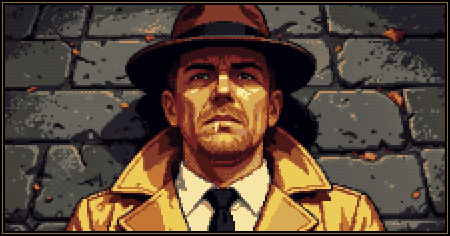
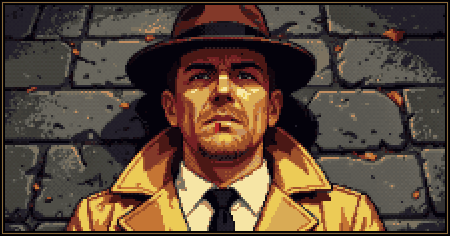
Kick from behind Micah, half turned to the screen; red lip cut stamped after the reduction
Sal kicks with his right foot from behind Micah's middle, the foot hidden by Micah's
body. The lip cut is now fresh red, painted onto the reduced art pixels so the rest
of the face keeps its colours.

diff --git a/tools/art/closeup.py b/tools/art/closeup.py
@@ -42,10 +42,11 @@ MICAH_FACE_X, ELEANOR_FACE_X = 672, 665  # face centres in the 1344x768 sources
 MICAH_FACE_W, MICAH_FACE_H, MICAH_EYES_Y = 260, 235, 265
 ELEANOR_FACE_W, ELEANOR_FACE_H, ELEANOR_EYES_Y = 280, 320, 245
 MICAH_ZOOM = ((ELEANOR_FACE_W * ELEANOR_FACE_H) / (MICAH_FACE_W * MICAH_FACE_H)) ** 0.5
-# The lip scar, from the mouth line to the chin, in each source of Micah's face: pale scar tissue and its dark edge.
-MICAH_SCAR = ((652, 398), (647, 428))
-BEATEN_SCAR = ((648, 358), (643, 388))
-SCAR, SCAR_EDGE = hx("f0c8b0"), hx("6a2a24")
+# The lip cut, from the mouth line to the chin, in each source of Micah's face: fresh red and its darker edge.
+MICAH_CUT = ((652, 398), (647, 428))
+BEATEN_CUT = ((648, 358), (643, 388))
+CUT, CUT_EDGE = hx("b8262a"), hx("5a0e12")
+CUT_COVER = 80  # how much of an art pixel the cut must cover to be stamped red, out of 255
 # One palette for both stage variants, so they differ only where the dress is. Pinned to the one the pictures had
 # before the locks of hair were painted in, so her face reduces to exactly the same pixels as it always did.
 STAGE_PALETTE = [hx(c) for c in """
@@ -84,24 +85,32 @@ def crop_to_panel(img):
     return img.crop((0, 0, w, round(w * AH / AW)))
 
 
-def lip_scar(img, top, bottom, width=10):
-    """Paints the scar the Blue Lantern left on Micah's bottom lip: a thin pale seam, slightly slanted, from the
-    mouth line down across the lip into the chin, with a dark healed edge along one side. Drawn on a copy of the
-    source picture, wide enough to come through the reduction as a line about one art pixel wide."""
-    img = img.copy()
-    draw = ImageDraw.Draw(img)
+def lip_cut(size, top, bottom, width=10):
+    """The cut the Blue Lantern left on Micah's bottom lip, as masks over a source picture of the given size: a thin
+    line, slightly slanted, from the mouth line down across the lip into the chin, and a darker edge along one side.
+    The masks go through the same crop and reduction as the picture, then stamp_cut paints them in."""
     (x0, y0), (x1, y1) = top, bottom
-    draw.line([top, bottom], fill=SCAR, width=width)
-    draw.line([(x0 + width, y0 + 4), (x1 + width, y1)], fill=SCAR_EDGE, width=width // 2)
-    return img
+    cut, edge = Image.new("L", size, 0), Image.new("L", size, 0)
+    ImageDraw.Draw(cut).line([top, bottom], fill=255, width=width)
+    ImageDraw.Draw(edge).line([(x0 + width, y0 + 4), (x1 + width, y1)], fill=255, width=width // 2)
+    return cut, edge
+
+
+def stamp_cut(art, masks):
+    """Paints the cut over a picture already reduced to art pixels, in its own two reds, so the reduction of the rest
+    of the face is untouched; masks are lip_cut's, reduced to the same size."""
+    a = np.array(art)
+    cut, edge = (np.asarray(m.convert("L")) >= CUT_COVER for m in masks)
+    a[edge & ~cut] = CUT_EDGE
+    a[cut] = CUT
+    return Image.fromarray(a)
 
 
 def beaten_closeup(src):
-    """Micah flat on his back on the cathedral steps, looking up from under his hat, the scar on his bottom lip.
-    The palette is the unscarred picture's, so the scar changes only its own pixels."""
-    src = src.convert("RGB")
-    img = crop_to_panel(lip_scar(src, *BEATEN_SCAR))
-    return framed(img, palette_of(crop_to_panel(src).resize((AW, AH), Image.BOX), COLOURS))
+    """Micah flat on his back on the cathedral steps, looking up from under his hat, the cut on his bottom lip."""
+    img = crop_to_panel(src.convert("RGB"))
+    cut = [crop_to_panel(m) for m in lip_cut(src.size, *BEATEN_CUT)]
+    return framed(img, palette_of(img.resize((AW, AH), Image.BOX), COLOURS - 2), cut)
 
 
 def motel_crop(src):
@@ -137,12 +146,11 @@ def portrait_crop(src, cx, zoom=1.0, eyes_y=None, target_eyes_y=None):
 
 def convent_closeup(micah, eleanor):
     """Outside the convent, the first time they meet: Micah on the left, Eleanor on the right, faces the same size.
-    Micah's bottom lip carries the scar from the Blue Lantern; the palette is the unscarred picture's, so the scar
-    changes only its own pixels."""
-    micah = micah.convert("RGB")
+    Micah's bottom lip carries the cut from the Blue Lantern, in two reds that leave the panel's other 30 colours."""
     crop = lambda img: portrait_crop(img, MICAH_FACE_X, MICAH_ZOOM, MICAH_EYES_Y, ELEANOR_EYES_Y)
-    right = portrait_crop(eleanor, ELEANOR_FACE_X)
-    return framed_pair(crop(lip_scar(micah, *MICAH_SCAR)), right, pair_palette(crop(micah), right))
+    left, right = crop(micah), portrait_crop(eleanor, ELEANOR_FACE_X)
+    cut = [crop(m) for m in lip_cut(micah.size, *MICAH_CUT)]
+    return framed_pair(left, right, pair_palette(left, right, COLOURS - 2), cut)
 
 
 def frame_border(panel):
@@ -153,30 +161,36 @@ def frame_border(panel):
     return panel
 
 
-def framed(img, pal):
-    """The framed panel: the picture reduced to chunky VGA pixels inside a dark bevelled frame."""
+def framed(img, pal, cut=None):
+    """The framed panel: the picture reduced to chunky VGA pixels inside a dark bevelled frame; cut is lip_cut's
+    masks, cropped like the picture, to stamp over the reduction."""
     small = img.resize((AW, AH), Image.BOX)
-    inner = pixelize(small, pal, spread=8).resize((IW, IH), Image.NEAREST)
+    art = pixelize(small, pal, spread=8)
+    if cut: art = stamp_cut(art, [m.resize((AW, AH), Image.BOX) for m in cut])
+    inner = art.resize((IW, IH), Image.NEAREST)
     panel = Image.new("RGB", (PW, PH), hx("08060a"))
     panel.paste(inner, (FRAME, FRAME))
     return frame_border(panel)
 
 
-def pair_palette(left, right):
+def pair_palette(left, right, colours=COLOURS):
     """The palette a two-portrait panel of these pictures gets."""
     both = Image.new("RGB", (HALF * 2, AH))
     both.paste(left.resize((HALF, AH), Image.BOX), (0, 0))
     both.paste(right.resize((HALF, AH), Image.BOX), (HALF, 0))
-    return palette_of(both, COLOURS)
+    return palette_of(both, colours)
 
 
-def framed_pair(left, right, pal=None):
-    """Two pictures side by side in one framed panel, split by a bar in the frame's colours. One palette for both."""
+def framed_pair(left, right, pal=None, left_cut=None):
+    """Two pictures side by side in one framed panel, split by a bar in the frame's colours. One palette for both;
+    left_cut is lip_cut's masks, cropped like the left picture."""
     a = left.resize((HALF, AH), Image.BOX)
     b = right.resize((HALF, AH), Image.BOX)
     pal = pal or pair_palette(left, right)
+    art = pixelize(a, pal, spread=8)
+    if left_cut: art = stamp_cut(art, [m.resize((HALF, AH), Image.BOX) for m in left_cut])
     panel = Image.new("RGB", (PW, PH), hx("08060a"))
-    panel.paste(pixelize(a, pal, spread=8).resize((HALF * SCALE, IH), Image.NEAREST), (FRAME, FRAME))
+    panel.paste(art.resize((HALF * SCALE, IH), Image.NEAREST), (FRAME, FRAME))
     panel.paste(pixelize(b, pal, spread=8).resize((HALF * SCALE, IH), Image.NEAREST), (PW - FRAME - HALF * SCALE, FRAME))
     d = ImageDraw.Draw(panel)
     x0 = FRAME + HALF * SCALE

diff --git a/tests/art/test_convent_closeup.py b/tests/art/test_convent_closeup.py
@@ -74,20 +74,24 @@ class ConventCloseupTests(unittest.TestCase):
         colours = {tuple(c) for c in np.concatenate([left.reshape(-1, 3), right.reshape(-1, 3)])}
         self.assertLessEqual(len(colours), closeup.COLOURS)
 
-    def test_a_small_scar_crosses_micahs_bottom_lip(self):
-        source = Image.open(closeup.MICAH_SRC).convert("RGB")
-        scarred = np.asarray(closeup.lip_scar(source, *closeup.MICAH_SCAR)).astype(int)
-        changed = np.argwhere((scarred != np.asarray(source)).any(axis=2))
-        (top, left), (bottom, right) = changed.min(axis=0), changed.max(axis=0)
-        self.assertLessEqual(bottom - top, 40, "a short scar, not a gash")
+    def test_a_small_red_cut_crosses_micahs_bottom_lip(self):
+        source = Image.open(closeup.MICAH_SRC)
+        cut, _ = closeup.lip_cut(source.size, *closeup.MICAH_CUT)
+        (top, left), (bottom, right) = (lambda p: (p.min(axis=0), p.max(axis=0)))(np.argwhere(np.asarray(cut)))
+        self.assertLessEqual(bottom - top, 40, "a short cut, not a gash")
         self.assertLessEqual(right - left, 25, "a thin line")
         self.assertTrue(abs(top - 400) <= 6 and closeup.MICAH_FACE_X - 40 < left < closeup.MICAH_FACE_X,
                         "from the mouth line, just off centre")
-        with unittest.mock.patch.object(closeup, "lip_scar", lambda img, *_: img):
+        with unittest.mock.patch.object(closeup, "stamp_cut", lambda art, _: art):
             plain = closeup.convent_closeup(source, Image.open(closeup.ELEANOR_SRC))
-        diff = (np.asarray(self.panel) != np.asarray(plain)).any(axis=2)
-        self.assertTrue(diff[:, :BAR_X].any(), "the scar survives the reduction")
-        self.assertLess(diff[:, :BAR_X].sum(), 200, "and stays small in the panel")
+        a, p = np.asarray(self.panel), np.asarray(plain)
+        diff = (a != p).any(axis=2)
+        self.assertFalse(diff[:, BAR_X:].any(), "Eleanor is untouched")
+        self.assertTrue(diff.any(), "the cut survives the reduction")
+        self.assertLess(diff.sum(), 200, "and stays small in the panel")
+        reds = {tuple(c) for c in a[diff]}
+        self.assertLessEqual(reds, {closeup.CUT, closeup.CUT_EDGE}, "only the cut's own reds change")
+        self.assertIn(closeup.CUT, reds, "fresh red, not a pale line")
 
     def test_micah_on_the_left_in_his_yellow_coat(self):
         left, _ = halves(self.panel)

diff --git a/scripts/Rooms/Alley.cs b/scripts/Rooms/Alley.cs
@@ -21,9 +21,10 @@ public partial class Alley : Room
     private static readonly Vector2 TonyOut = new(318, 208);
     private static readonly Vector2 MicahAims = new(258, 214);
 
-    /// <summary>Act 1: Sal's place by Micah's head, and the spot a step further on that he kicks from.</summary>
+    /// <summary>Act 1: Sal's place by Micah's head, and the spot he kicks from: behind Micah, half turned to the
+    /// screen, so his right foot goes into Micah's belly out of sight behind Micah's body.</summary>
     private static readonly Vector2 SalStands = new(242, 224);
-    private static readonly Vector2 SalKicks = new(272, 228);
+    private static readonly Vector2 SalKicks = new(250, 220);
 
     /// <summary>Seconds into sal_kick when his toe lands: the idle and wind-up frames.</summary>
     private const double KickLands = 0.45;
@@ -95,7 +96,7 @@ public partial class Alley : Room
             await Wait(0.8);
             if (FindActor("sal") is { } bouncer)
             {
-                // so it's clear what happened out here: two in the gut for the road, then Sal steps back
+                // so it's clear what happened out here: from behind Micah, two in the gut, then Sal steps back
                 await bouncer.MoveTo(SalKicks, 50);
                 bouncer.FaceLeft(true);
                 for (int kick = 0; kick < 2; kick++)
@@ -192,7 +193,8 @@ public partial class Alley : Room
         return false;
     }
 
-    /// <summary>One kick: Sal swings his foot under Micah's chest, and Micah doubles up and sags back onto his forearms.</summary>
+    /// <summary>One kick: from behind Micah, facing the screen, Sal drives his foot into Micah's belly, and Micah
+    /// doubles up and sags back onto his forearms.</summary>
     private async Task<bool> Kick(Actor sal)
     {
         var swing = sal.PlayPose("sal_kick");

diff --git a/tools/art/sprites.py b/tools/art/sprites.py
@@ -460,13 +460,13 @@ def kneeling_figure(spec, joints):
     return action_figure(spec, joints, chest_down=down, toes_tucked=down)
 
 
-# Sal's kick, facing right (the alley flips him): (yaw, legs, lean) after his idle frame. He turns side-on and draws
-# the near leg back, drives the toe forward and low under a kneeling man's chest, then lets the leg drop back.
-# Hands stay in his pockets throughout.
+# Sal's kick, standing behind a kneeling man and half turned to the screen, facing right (the alley flips him so the
+# kicking leg is his right): (yaw, legs, lean) after his idle frame. He draws the leg back, drives the toe forward and
+# down into the man's belly (the man's body hides the foot), then lets the leg drop back. Hands stay in his pockets.
 SAL_KICK = [
-    (70, {1: (2, 4, 0), -1: (-28, 50, -20)}, 4.0),
-    (80, {1: (4, 6, 0), -1: (50, 22, 4)}, -8.0),
-    (80, {1: (4, 6, 0), -1: (14, 30, -4)}, -3.0),
+    (30, {1: (2, 4, 0), -1: (-28, 50, -20)}, 4.0),
+    (30, {1: (4, 6, 0), -1: (50, 22, 4)}, -8.0),
+    (30, {1: (4, 6, 0), -1: (14, 30, -4)}, -3.0),
 ]
 # Micah on his knees taking the kick: the back hunches up, the head tucks in and the near hand comes off the cobbles
 # to clutch his stomach, then he sags back down onto his forearms.

diff --git a/tests/test_character_art.py b/tests/test_character_art.py
@@ -404,7 +404,7 @@ class CharacterArtTests(unittest.TestCase):
             self.assertEqual(standing.tobytes(), idle.tobytes(), "start and end on Sal's idle pose")
         self.assertEqual(len({frame.tobytes() for frame in frames[1:4]}), 3, "wind-up, strike and recoil differ")
         strike = np.array(frames[2])[..., 3]
-        self.assertGreater(np.nonzero(strike.any(axis=0))[0].max(), width // 2 + 24, "the foot swings well out front")
+        self.assertGreater(np.nonzero(strike.any(axis=0))[0].max(), width // 2 + 16, "the foot drives out in front")
         self.assertAlmostEqual(sum(f["seconds"] for f in clip["frames"][:2]), 0.45, msg="the toe lands 0.45 s in")
 
     def test_kicked_micah_doubles_up_and_settles_back_on_his_knees(self):

diff --git a/Walkthrough.md b/Walkthrough.md
@@ -145,10 +145,10 @@ described here (other verbs, flavour lines) is left to the implementation.
 
 - New location: the road behind the club, dirty and in the shadow, with only one intermittent street lamp.
 - Micah is on his knees, hands on the pavement (new kneeling pose and sprite) after a beating, Sal next to him and
-  Tony behind Sal. So the player understands what happened, Sal steps up and kicks him in the belly twice (new
-  kicking sprite for Sal and a doubled-up sprite for Micah, a thud on each kick), then steps back and the dialogue
-  starts. The beating splits Micah's bottom lip: from here on his close-ups (the convent two-portrait panel and
-  the beaten panel) show a small scar across it.
+  Tony behind Sal. So the player understands what happened, Sal steps up behind Micah, half turned to the screen,
+  and kicks him in the belly twice with his right foot, the foot hidden behind Micah's body (new kicking sprite for
+  Sal and a doubled-up sprite for Micah, a thud on each kick), then steps back and the dialogue starts. The beating splits Micah's bottom lip: from here on his close-ups (the convent two-portrait panel
+  and the beaten panel) show a small red cut across it.
 - Tony tells him that Eleanor is "hot stuff", that he sent her to a convent of nuns, and that he doesn't know
   anything else.
 - Before leaving, Micah pushes up from his knees and forearms through a supported crouch to standing.
